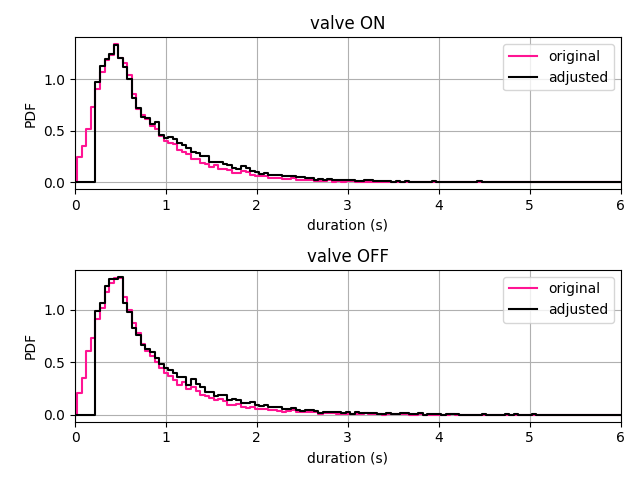
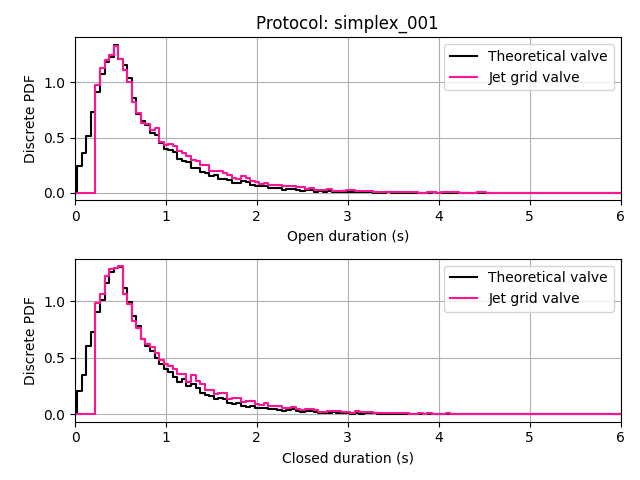
Refactor: Var names and colors conform publication
All protocols remain the same

diff --git a/protocols/make_proto_opensimplex.py b/protocols/make_proto_opensimplex.py
@@ -80,10 +80,7 @@ if not LOAD_FROM_CACHE:
     if SAVE_TO_CACHE:
         print("Saving cache to disk...")
         tick = perf_counter()
-        np.savez(
-            "cache.npz",
-            img_stack_gray=img_stack_gray,
-        )
+        np.savez("cache.npz", img_stack_gray=img_stack_gray)
         print(f"done in {(perf_counter() - tick):.2f} s\n")
 
 else:
@@ -156,9 +153,15 @@ with open(CFG.EXPORT_PATH_NO_EXT + "_alpha.txt", "w", encoding="utf-8") as f:
             f.write("All frames did converge.\n")
     else:
         f.write("A simple BW threshold was used.\n")
-        f.write("Column `converged?` can be ignored.\n")
+        f.write("Column `Newton_solver_converged?` can be ignored.\n")
 
-    f.write("\n# frame\talpha_BW\talpha_valves_adj\tconverged?\n")
+    f.write(
+        "\n"
+        "# frame\t"
+        "transparency_binary_noise\t"
+        "transparency_jet_grid\t"
+        "Newton_solver_converged?\n"
+    )
     for i in range(CFG.N_FRAMES):
         f.write(
             f"{i:d}\t{alpha_BW[i]:.2f}\t"
@@ -186,12 +189,20 @@ np.savetxt(
     CFG.EXPORT_PATH_NO_EXT + "_pdfs.txt",
     pdfs,
     fmt="%.3f\t%.3e\t%.3e\t%.3e\t%.3e",
-    header="duration[s]\tpdf_on_orig\tpdf_on_adj\tpdf_off_orig\tpdf_off_adj",
+    header=(
+        "duration[s]\t"
+        "open_theoretical_valve\t"
+        "open_jet_grid_valve\t"
+        "closed_theoretical_valve\t"
+        "closed_jet_grid_valve"
+    ),
 )
 
 # ------------------------------------------------------------------------------
 #  Plot
 # ------------------------------------------------------------------------------
+
+plot_title = f"Protocol: {CFG.EXPORT_FILENAME}"
 
 # 1: Valve and noise animation
 # ----------------------------
@@ -277,15 +288,17 @@ anim = animation.FuncAnimation(
 fig_2 = plt.figure(2)
 fig_2.set_tight_layout(True)  # type: ignore
 fig_2.set_size_inches(12, 4.8)
-# plt.plot(alpha_valves, "deeppink", label=f"valves org {stats_alpha_valves}")
-plt.plot(alpha_valves_adj, "k", label=f"valves adj {stats_alpha_valves_adj}")
-# plt.plot(alpha_BW, "g", label=f"noise {stats_alpha_BW}")
+plt.plot(
+    alpha_valves_adj, "deeppink", label=f"Jet grid: {stats_alpha_valves_adj}"
+)
+# plt.plot(alpha_valves, "g", label=f"Valves org.: {stats_alpha_valves}")
+plt.plot(alpha_BW, "k", label=f"Binary noise: {stats_alpha_BW}")
+plt.title(plot_title)
 plt.xlim(0, CFG.N_FRAMES)
-plt.title("transparency")
-plt.xlabel("frame #")
-plt.ylabel("alpha [0 - 1]")
+plt.xlabel("Frame #")
+plt.ylabel("Transparency [0 - 1]")
 plt.minorticks_on()
-plt.legend()
+plt.legend(loc="upper right")
 
 # 3: Probability densities
 # ------------------------
@@ -294,17 +307,17 @@ plt.legend()
 fig_3, axs = plt.subplots(2)
 fig_3.set_tight_layout(True)  # type: ignore
 
-axs[0].set_title("valve ON")
-axs[0].step(bins, pdf_on, "deeppink", where="mid", label="original")
-axs[0].step(bins, pdf_on_adj, "k", where="mid", label="adjusted")
+axs[0].set_title(plot_title)
+axs[0].set_xlabel("Open duration (s)")
+axs[0].step(bins, pdf_on, "k", where="mid", label="Theoretical valve")
+axs[0].step(bins, pdf_on_adj, "deeppink", where="mid", label="Jet grid valve")
 
-axs[1].set_title("valve OFF")
-axs[1].step(bins, pdf_off, "deeppink", where="mid", label="original")
-axs[1].step(bins, pdf_off_adj, "k", where="mid", label="adjusted")
+axs[1].set_xlabel("Closed duration (s)")
+axs[1].step(bins, pdf_off, "k", where="mid", label="Theoretical valve")
+axs[1].step(bins, pdf_off_adj, "deeppink", where="mid", label="Jet grid valve")
 
 for ax in axs:
-    ax.set_xlabel("duration (s)")
-    ax.set_ylabel("PDF")
+    ax.set_ylabel("Discrete PDF")
     ax.set_xlim(0, 6)
     ax.legend()
     ax.grid()
